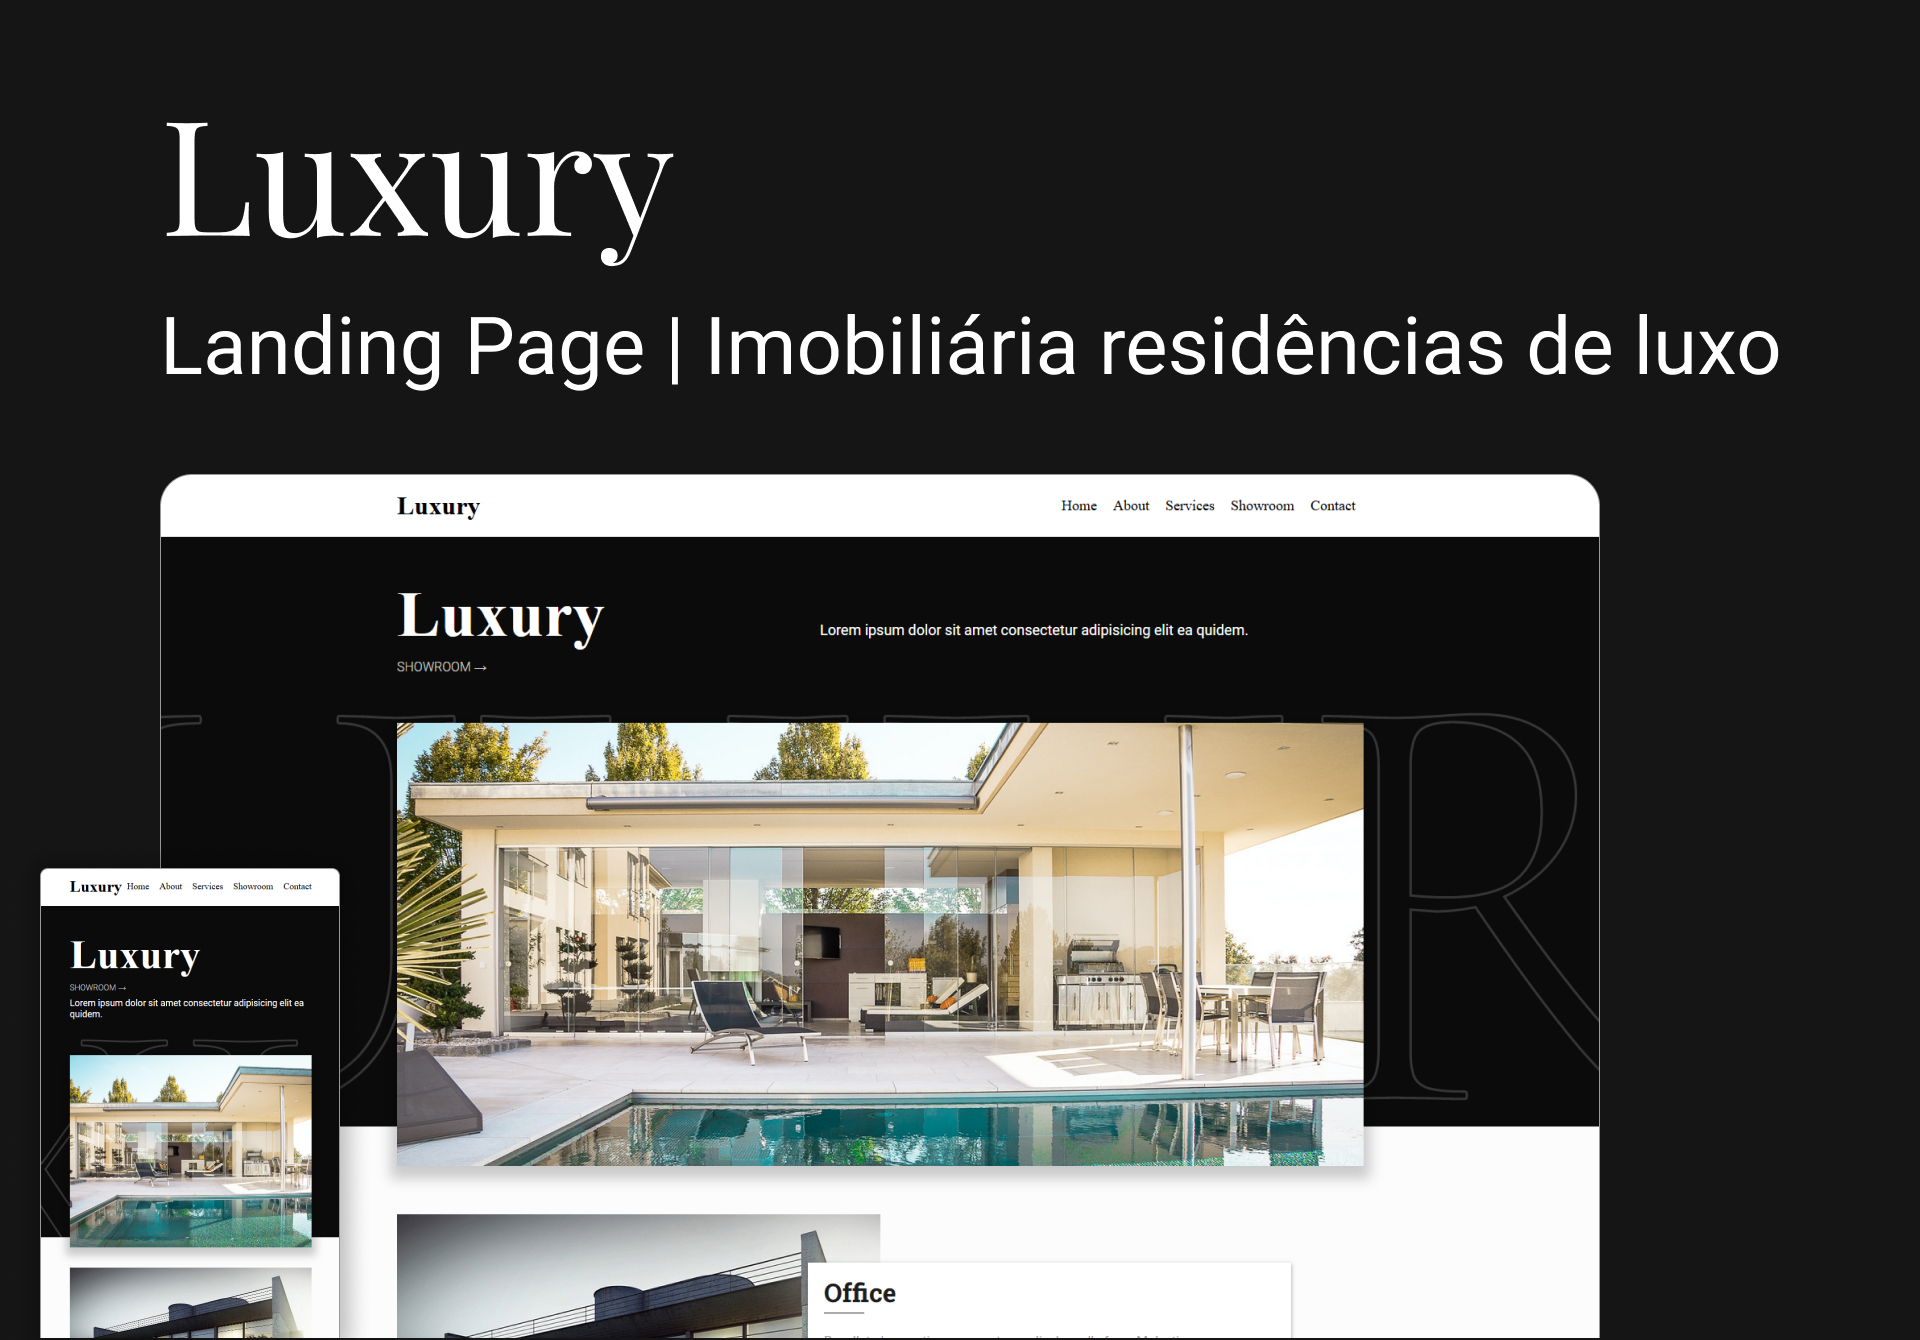
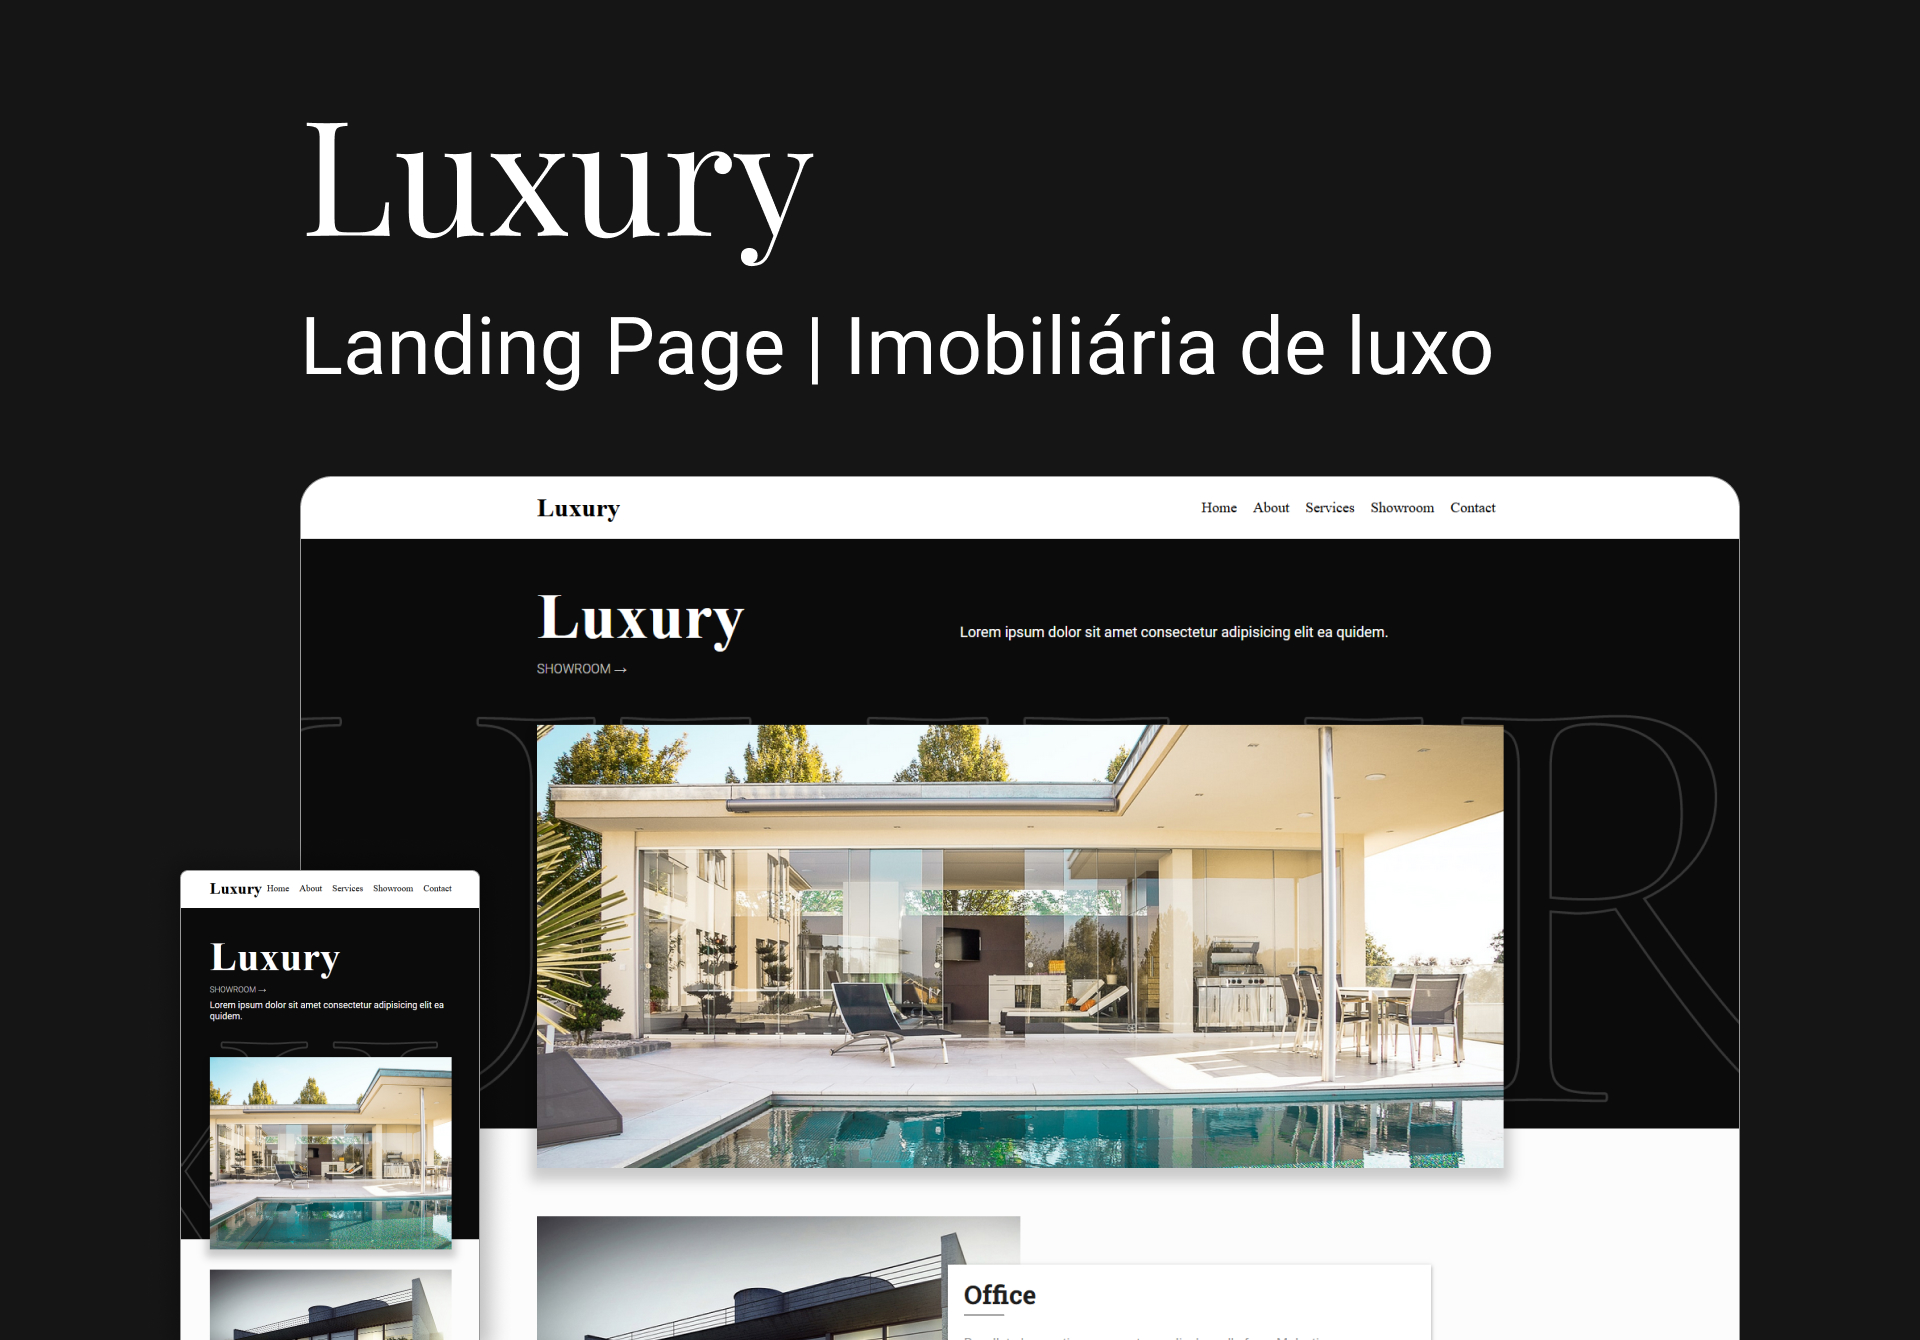
[UPDATE] New cover

diff --git a/README.md b/README.md
@@ -14,12 +14,28 @@
 
 <div>
 
-  # Aprendizados
+  # ⚡ Overview
+  <b>Luxury</b>: É uma Landing page para para uma imobiliária fictícia de residências de alto padrão.<br />
+  Foquei em manter simplicidade e com conceitos de modernidade arquitetural, uma estrutura sólida e disruptiva.
+   
+  ## Features:
+  - Manipulação de DOM
+  - Totalmente Responsivo
+  - SEO otimizado
+  - W3C validação
+  - Animações suaves
+  - Animações de entradas com lib AOS JS.
+  - Página com carregamento rápido
+  - Página Home | Styleguide
+  - Layout Clean e Moderno
+
+  # 📚 Aprendizados
   Extrair a paleta de cores da brand da empresa e utiliza no projeto. <br />
   Trabalhar com cliente de alto nível.
   <br /><br />
-
-  # <b>[Ver online 🡽](https://header-01.softwarealles.repl.co/)</b>
+  
+  # 🚀 Deploy
+  [Ver online](https://header-01.softwarealles.repl.co/)
 
   ## Clone
 
